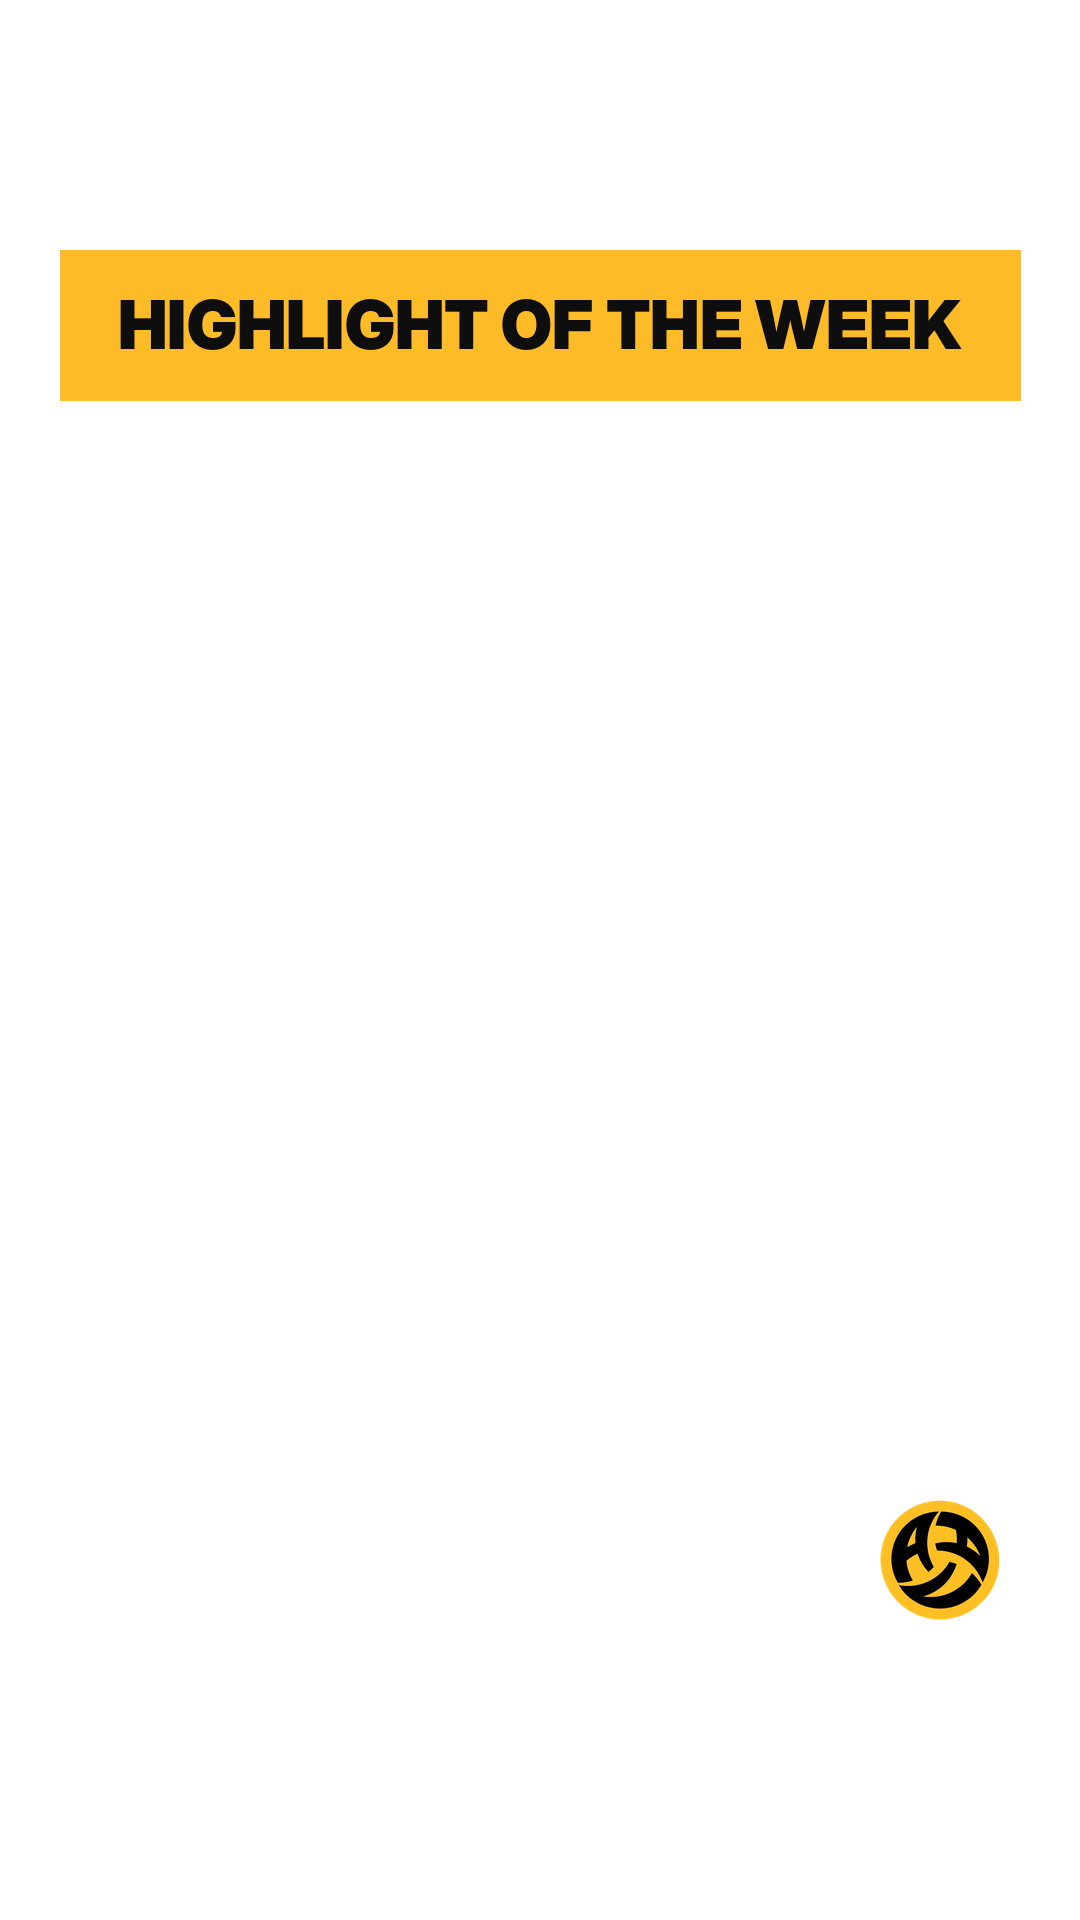
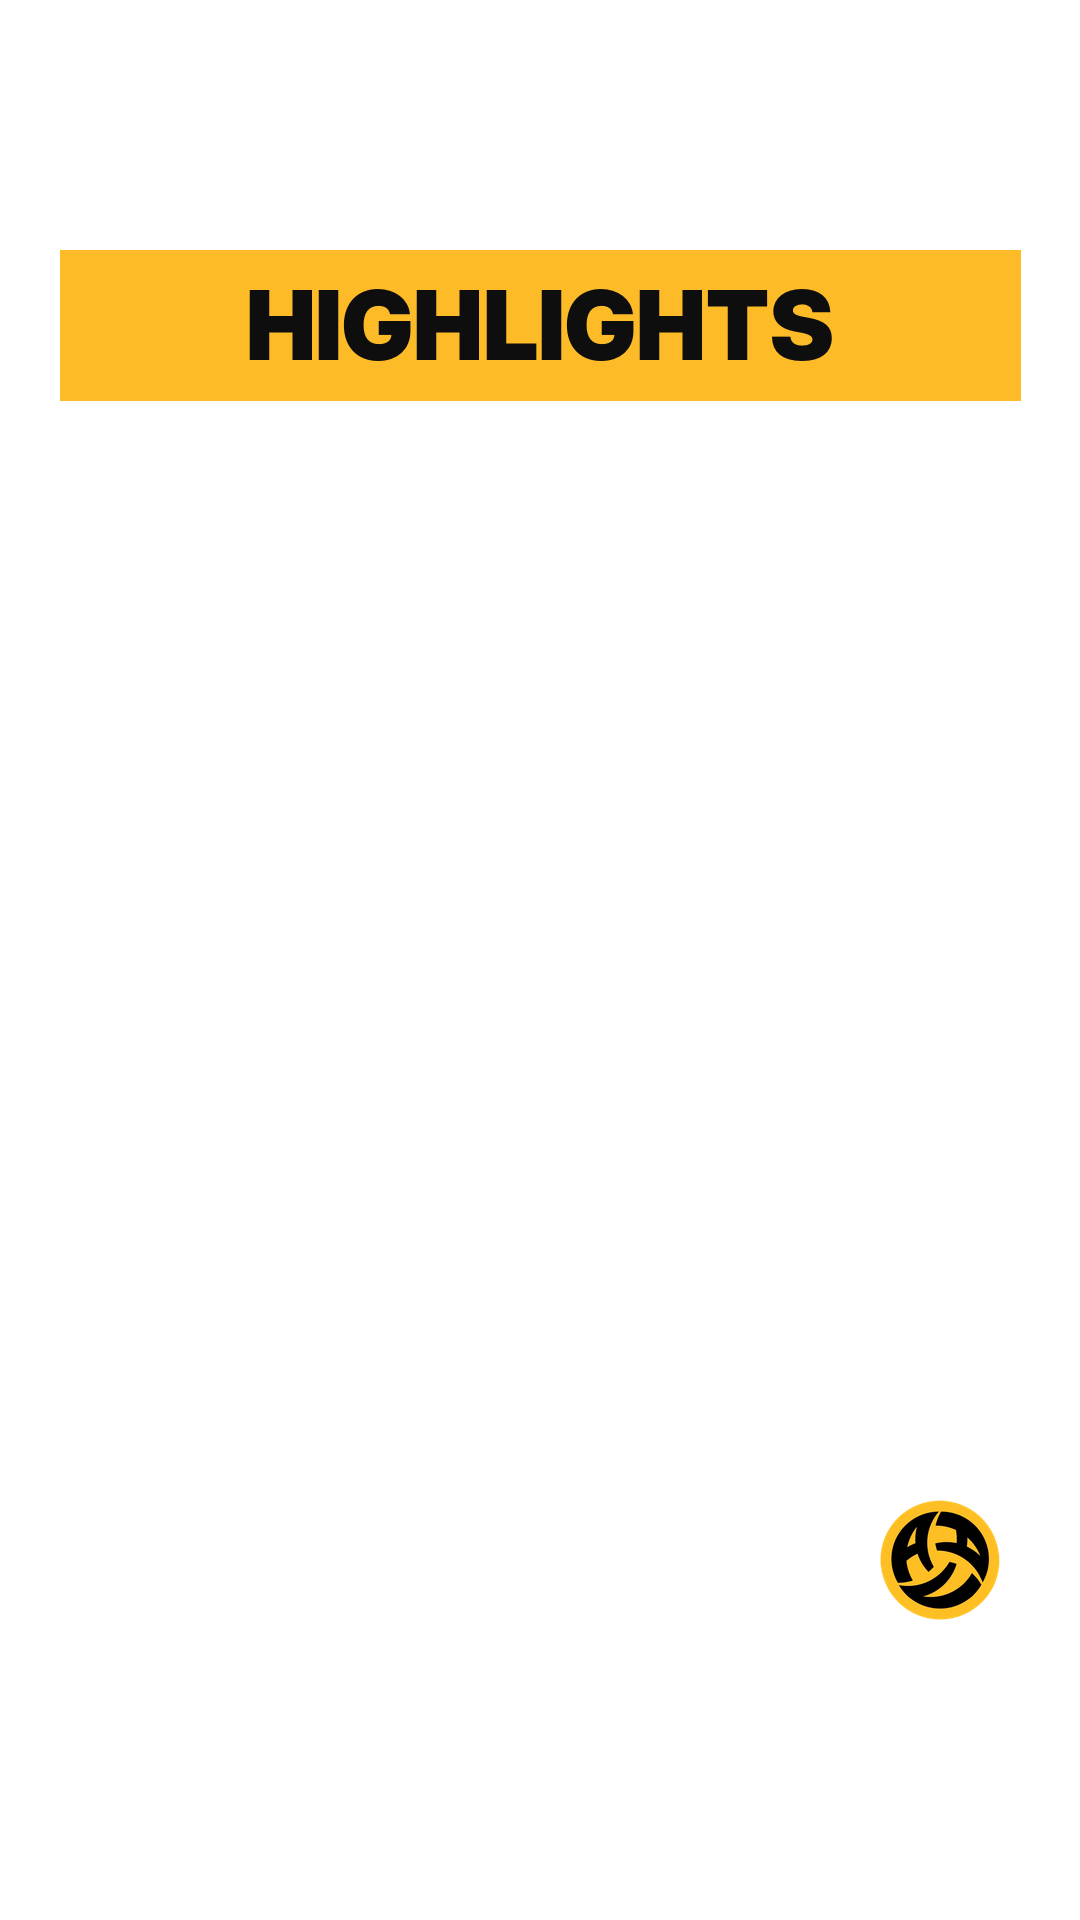
Landscape Reels by default; HIGHLIGHTS label only on highlights, lowlights get just the joke
Claude-Session: https://claude.ai/code/session_01LhpEf3dWvFCzGPd5WSLNCY

Changed region(s): [[0.0917, 0.125, 0.8861, 0.1875]]

diff --git a/socials/ava-c/tools/make_reel.py b/socials/ava-c/tools/make_reel.py
@@ -1,8 +1,9 @@
 #!/usr/bin/env python3
-"""Cut a 9:16 Reel/TikTok from a full match video (16:9 baseline camera).
+"""Cut a Reel/TikTok from a full match video (16:9 baseline camera).
 
-The wide court stays fully visible in the middle; the top and bottom are filled with a
-blurred, zoomed copy. The AVA label overlay (highlight / lowlight / bench cam) goes on top.
+Default: landscape 1920x1080, full frame. --vertical: 1080x1920 with the court in the middle and
+a blurred fill above/below.
+Highlights get the yellow HIGHLIGHTS label. Lowlights get no label, only the --hook text.
 
   python3 make_reel.py MATCH.mp4 START END --type highlight --hook "we have our moments 🔥" \
       [--slow 1:02:13.5-1:02:15.0] [--out reel.mp4]
@@ -24,12 +25,12 @@ FFMPEG = os.environ.get("AVACLIPS_FFMPEG") or shutil.which("ffmpeg") or "ffmpeg"
 ASSETS = HERE.parent / "assets"
 OVERLAYS = {
     "highlight": ASSETS / "overlay_highlight.png",
-    "lowlight": ASSETS / "overlay_lowlight.png",
+    "lowlight": ASSETS / "overlay_lowlight.png",  # logo only, no label
     "benchcam": ASSETS / "overlay_benchcam.png",
     "playerqs": ASSETS / "overlay_player_qs.png",
     "none": None,
 }
-W, H = 1080, 1920
+W, H = 1920, 1080  # set by --vertical
 
 
 def _font_dir():
@@ -70,12 +71,16 @@ def segment(src, start, end, out, speed, zoom, hook, overlay):
     dur = end - start
     cw = f"iw/{zoom}"
     ch = f"ih/{zoom}"
-    vf = (
-        f"[0:v]crop={cw}:{ch},split[a][b];"
-        f"[a]scale={W}:{H}:force_original_aspect_ratio=increase,crop={W}:{H},boxblur=30:2,eq=brightness=-0.12[bg];"
-        f"[b]scale={W}:-2[fg];"
-        f"[bg][fg]overlay=(W-w)/2:(H-h)/2[v0]"
-    )
+    if W > H:  # landscape: full frame, no fill
+        vf = (f"[0:v]crop={cw}:{ch},scale={W}:{H}:force_original_aspect_ratio=decrease:flags=lanczos,"
+              f"pad={W}:{H}:(ow-iw)/2:(oh-ih)/2[v0]")
+    else:
+        vf = (
+            f"[0:v]crop={cw}:{ch},split[a][b];"
+            f"[a]scale={W}:{H}:force_original_aspect_ratio=increase,crop={W}:{H},boxblur=30:2,eq=brightness=-0.12[bg];"
+            f"[b]scale={W}:-2:flags=lanczos[fg];"
+            f"[bg][fg]overlay=(W-w)/2:(H-h)/2[v0]"
+        )
     last = "v0"
     inputs = ["-ss", f"{start:.3f}", "-t", f"{dur:.3f}", "-i", str(src)]
     if overlay:
@@ -85,8 +90,8 @@ def segment(src, start, end, out, speed, zoom, hook, overlay):
     if hook:
         hook_file = Path(out).with_suffix(".hook.txt")
         hook_file.write_text(hook, encoding="utf-8")
-        vf += (f";[{last}]drawtext=fontfile={_font()}:textfile={hook_file}:fontsize=64:fontcolor=white:"
-               f"borderw=6:bordercolor=black:x=(w-text_w)/2:y=h*0.72[v2]")
+        vf += (f";[{last}]drawtext=fontfile={_font()}:textfile={hook_file}:fontsize={72 if W > H else 64}:fontcolor=white:"
+               f"borderw=7:bordercolor=black:x=(w-text_w)/2:y=h*{0.82 if W > H else 0.72}[v2]")
         last = "v2"
     if speed != 1.0:
         vf += f";[{last}]setpts=PTS/{speed}[v3]"
@@ -96,7 +101,7 @@ def segment(src, start, end, out, speed, zoom, hook, overlay):
         af = "anull"
     vf += f";[{last}]fps=30,format=yuv420p[vout]"
     run([FFMPEG, "-y", *inputs, "-filter_complex", vf, "-map", "[vout]", "-map", "0:a?",
-         "-af", af, "-c:v", "libx264", "-preset", "medium", "-crf", "19",
+         "-af", af, "-c:v", "libx264", "-preset", "slow", "-crf", "17",
          "-c:a", "aac", "-b:a", "160k", "-ar", "48000", "-ac", "2", str(out)])
 
 
@@ -109,13 +114,20 @@ def main():
     ap.add_argument("--hook", default="")
     ap.add_argument("--slow", help="START-END inside the clip to replay at 40%% speed")
     ap.add_argument("--zoom", type=float, default=1.0)
+    ap.add_argument("--vertical", action="store_true", help="9:16 instead of landscape 16:9")
     ap.add_argument("--out")
     a = ap.parse_args()
+    global W, H
+    if a.vertical:
+        W, H = 1080, 1920
 
     src = Path(a.video)
     start, end = t(a.start), t(a.end)
     out = Path(a.out) if a.out else src.with_name(f"{src.stem}_{a.type}_{int(start)}.mp4")
     ov = OVERLAYS[a.type]
+    if ov and not a.vertical:
+        land = ov.with_name(ov.stem + "_landscape.png")
+        ov = land if land.exists() else None
 
     with tempfile.TemporaryDirectory() as tmp:
         parts = [Path(tmp) / "p1.mp4"]

diff --git a/socials/ava-c/tools/make_graphics.py b/socials/ava-c/tools/make_graphics.py
@@ -204,12 +204,31 @@ def overlay(label, fname, yellow_band=True):
     d = ImageDraw.Draw(img)
     band = YELLOW if yellow_band else BLACK
     txt = BLACK if yellow_band else YELLOW
-    d.rectangle([60, 250, W - 60, 400], fill=band + (255,))
-    f = fit(d, label, "Black", W - 200, 96)
-    b = d.textbbox((0, 0), label, font=f)
-    d.text(((W - (b[2] - b[0])) / 2 - b[0], 325 - (b[3] - b[1]) / 2 - b[1]), label, font=f, fill=txt)
+    if label:
+        d.rectangle([60, 250, W - 60, 400], fill=band + (255,))
+        f = fit(d, label, "Black", W - 200, 96)
+        b = d.textbbox((0, 0), label, font=f)
+        d.text(((W - (b[2] - b[0])) / 2 - b[0], 325 - (b[3] - b[1]) / 2 - b[1]), label, font=f, fill=txt)
     L = logo(120)
     img.alpha_composite(L, (W - 200, H - 420))
+    OUT.mkdir(parents=True, exist_ok=True)
+    img.save(OUT / fname)
+    print(OUT / fname)
+
+
+def overlay_landscape(label, fname):
+    """Transparent 16:9 PNG: optional yellow label top-left, small logo bottom-right."""
+    W, H = 1920, 1080
+    img = Image.new("RGBA", (W, H), (0, 0, 0, 0))
+    d = ImageDraw.Draw(img)
+    if label:
+        f = font(64)
+        b = d.textbbox((0, 0), label, font=f)
+        tw, th = b[2] - b[0], b[3] - b[1]
+        y0 = H - 60 - (th + 50)  # bottom-left: the AVA Clips scoreboard sits at the top
+        d.rectangle([60, y0, 60 + tw + 70, y0 + th + 50], fill=YELLOW + (255,))
+        d.text((95 - b[0], y0 + 25 - b[1]), label, font=f, fill=BLACK)
+    img.alpha_composite(logo(110), (W - 170, H - 170))
     OUT.mkdir(parents=True, exist_ok=True)
     img.save(OUT / fname)
     print(OUT / fname)
@@ -222,8 +241,10 @@ def build_all():
     gameday("Prosek B", "PO / MON 7.12", "19:30", "AWAY", "03_gameday_prosek_b.png")
     result("Orion A", "3:1", "W", "example_result_win.png")
     result("Orion A", "1:3", "L", "example_result_loss.png")
-    overlay("HIGHLIGHT OF THE WEEK", "overlay_highlight.png", True)
-    overlay("LOWLIGHT OF THE WEEK", "overlay_lowlight.png", False)
+    overlay("HIGHLIGHTS", "overlay_highlight.png", True)
+    overlay("", "overlay_lowlight.png", False)  # lowlights: no label, only the funny text
+    overlay_landscape("HIGHLIGHTS", "overlay_highlight_landscape.png")
+    overlay_landscape("", "overlay_lowlight_landscape.png")
     overlay("BENCH CAM", "overlay_benchcam.png", True)
     overlay("PLAYER Qs", "overlay_player_qs.png", True)
 
